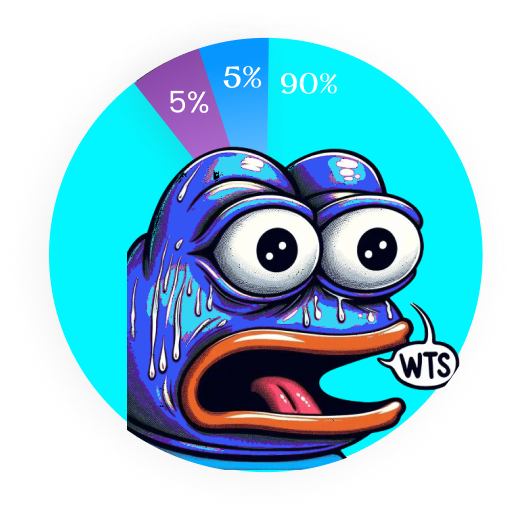
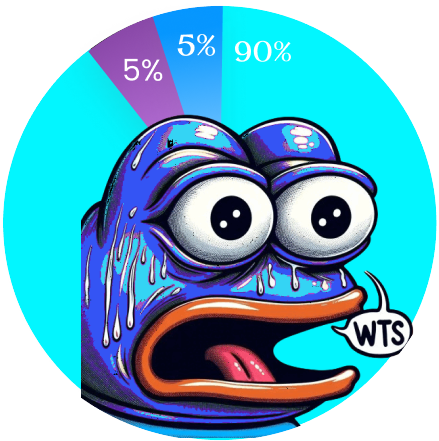
all

diff --git a/src/Pages/Tokenomics.jsx b/src/Pages/Tokenomics.jsx
@@ -21,7 +21,7 @@ export default function Tokenomics() {
     >
       <img src="/assets/herodesign.png" alt="" className="tokenomics-design" />
 
-      <div className="flex flex-col gap-3 custom-width-88 md:w-11/12">
+      <div className="flex flex-col custom-width-88 md:w-11/12">
         <div className="flex justify-between items-center w-full gap-12 md:gap-6">
           <p className="tokenomics-title">TOKENOMICS</p>
           <div className="flex-1 h-2 bg-black md:h-1" />
@@ -191,7 +191,7 @@ export default function Tokenomics() {
             </Tooltip>
           </div>
           <div className="tokenomics-right">
-            <div className="flex justify-center gap-12 w-full md:justify-between md:gap-0">
+            <div className="flex justify-center gap-20 w-full md:justify-between md:gap-0">
               <div className="flex items-center gap-2 md:gap-1 tokenomics-right-piechart-text">
                 <div className="w-4 h-4 bg-[#2FA6FD]" />
                 Team
@@ -205,7 +205,9 @@ export default function Tokenomics() {
                 Liquidity
               </div>
             </div>
-            <img src="/assets/tokenomicsimg.png" alt="" />
+            <div className="w-full flex items-center justify-center">
+              <img src="/assets/tokenomicsimg.png" alt="" className="w-2/3"/>
+            </div>
           </div>
         </div>
       </div>

diff --git a/src/App.scss b/src/App.scss
@@ -213,7 +213,7 @@
     }
   }
   .tokenomics-left {
-    width: 55%;
+    width: 50%;
     display: flex;
     flex-direction: column;
     gap: 60px;
@@ -277,7 +277,7 @@
     }
   }
   .tokenomics-right {
-    width: 45%;
+    width: 50%;
     display: flex;
     flex-direction: column;
     gap: 45px;
